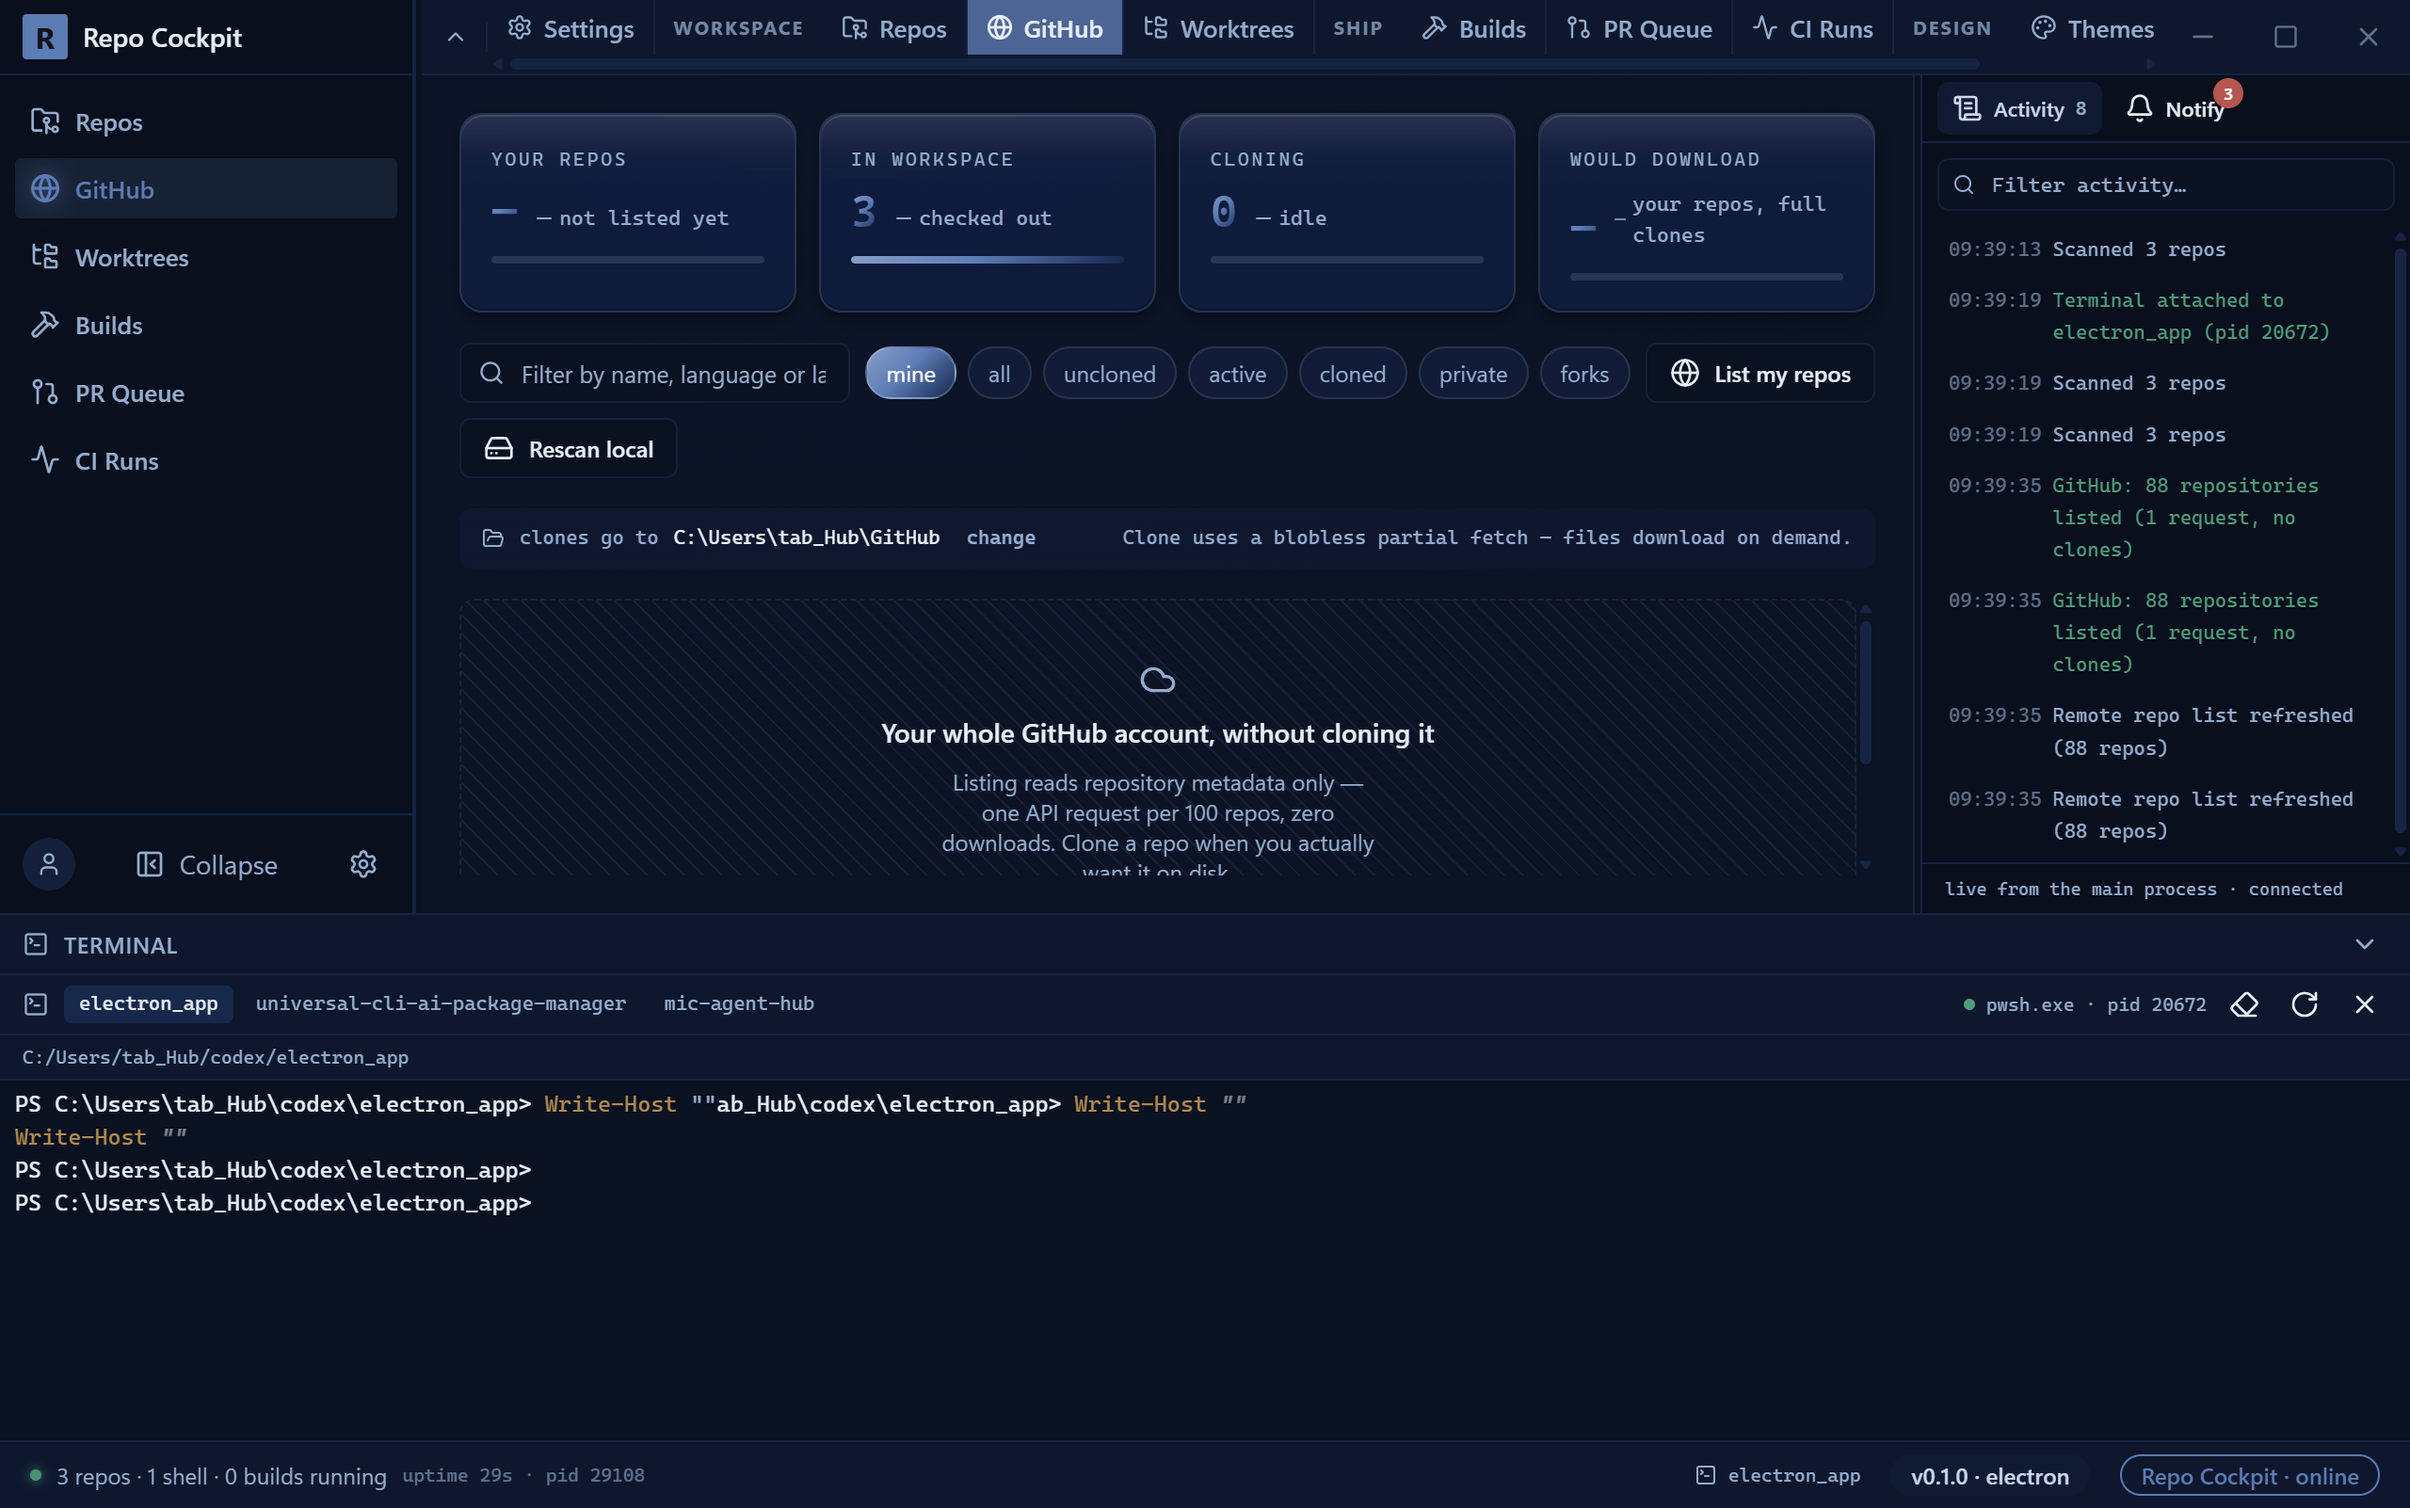
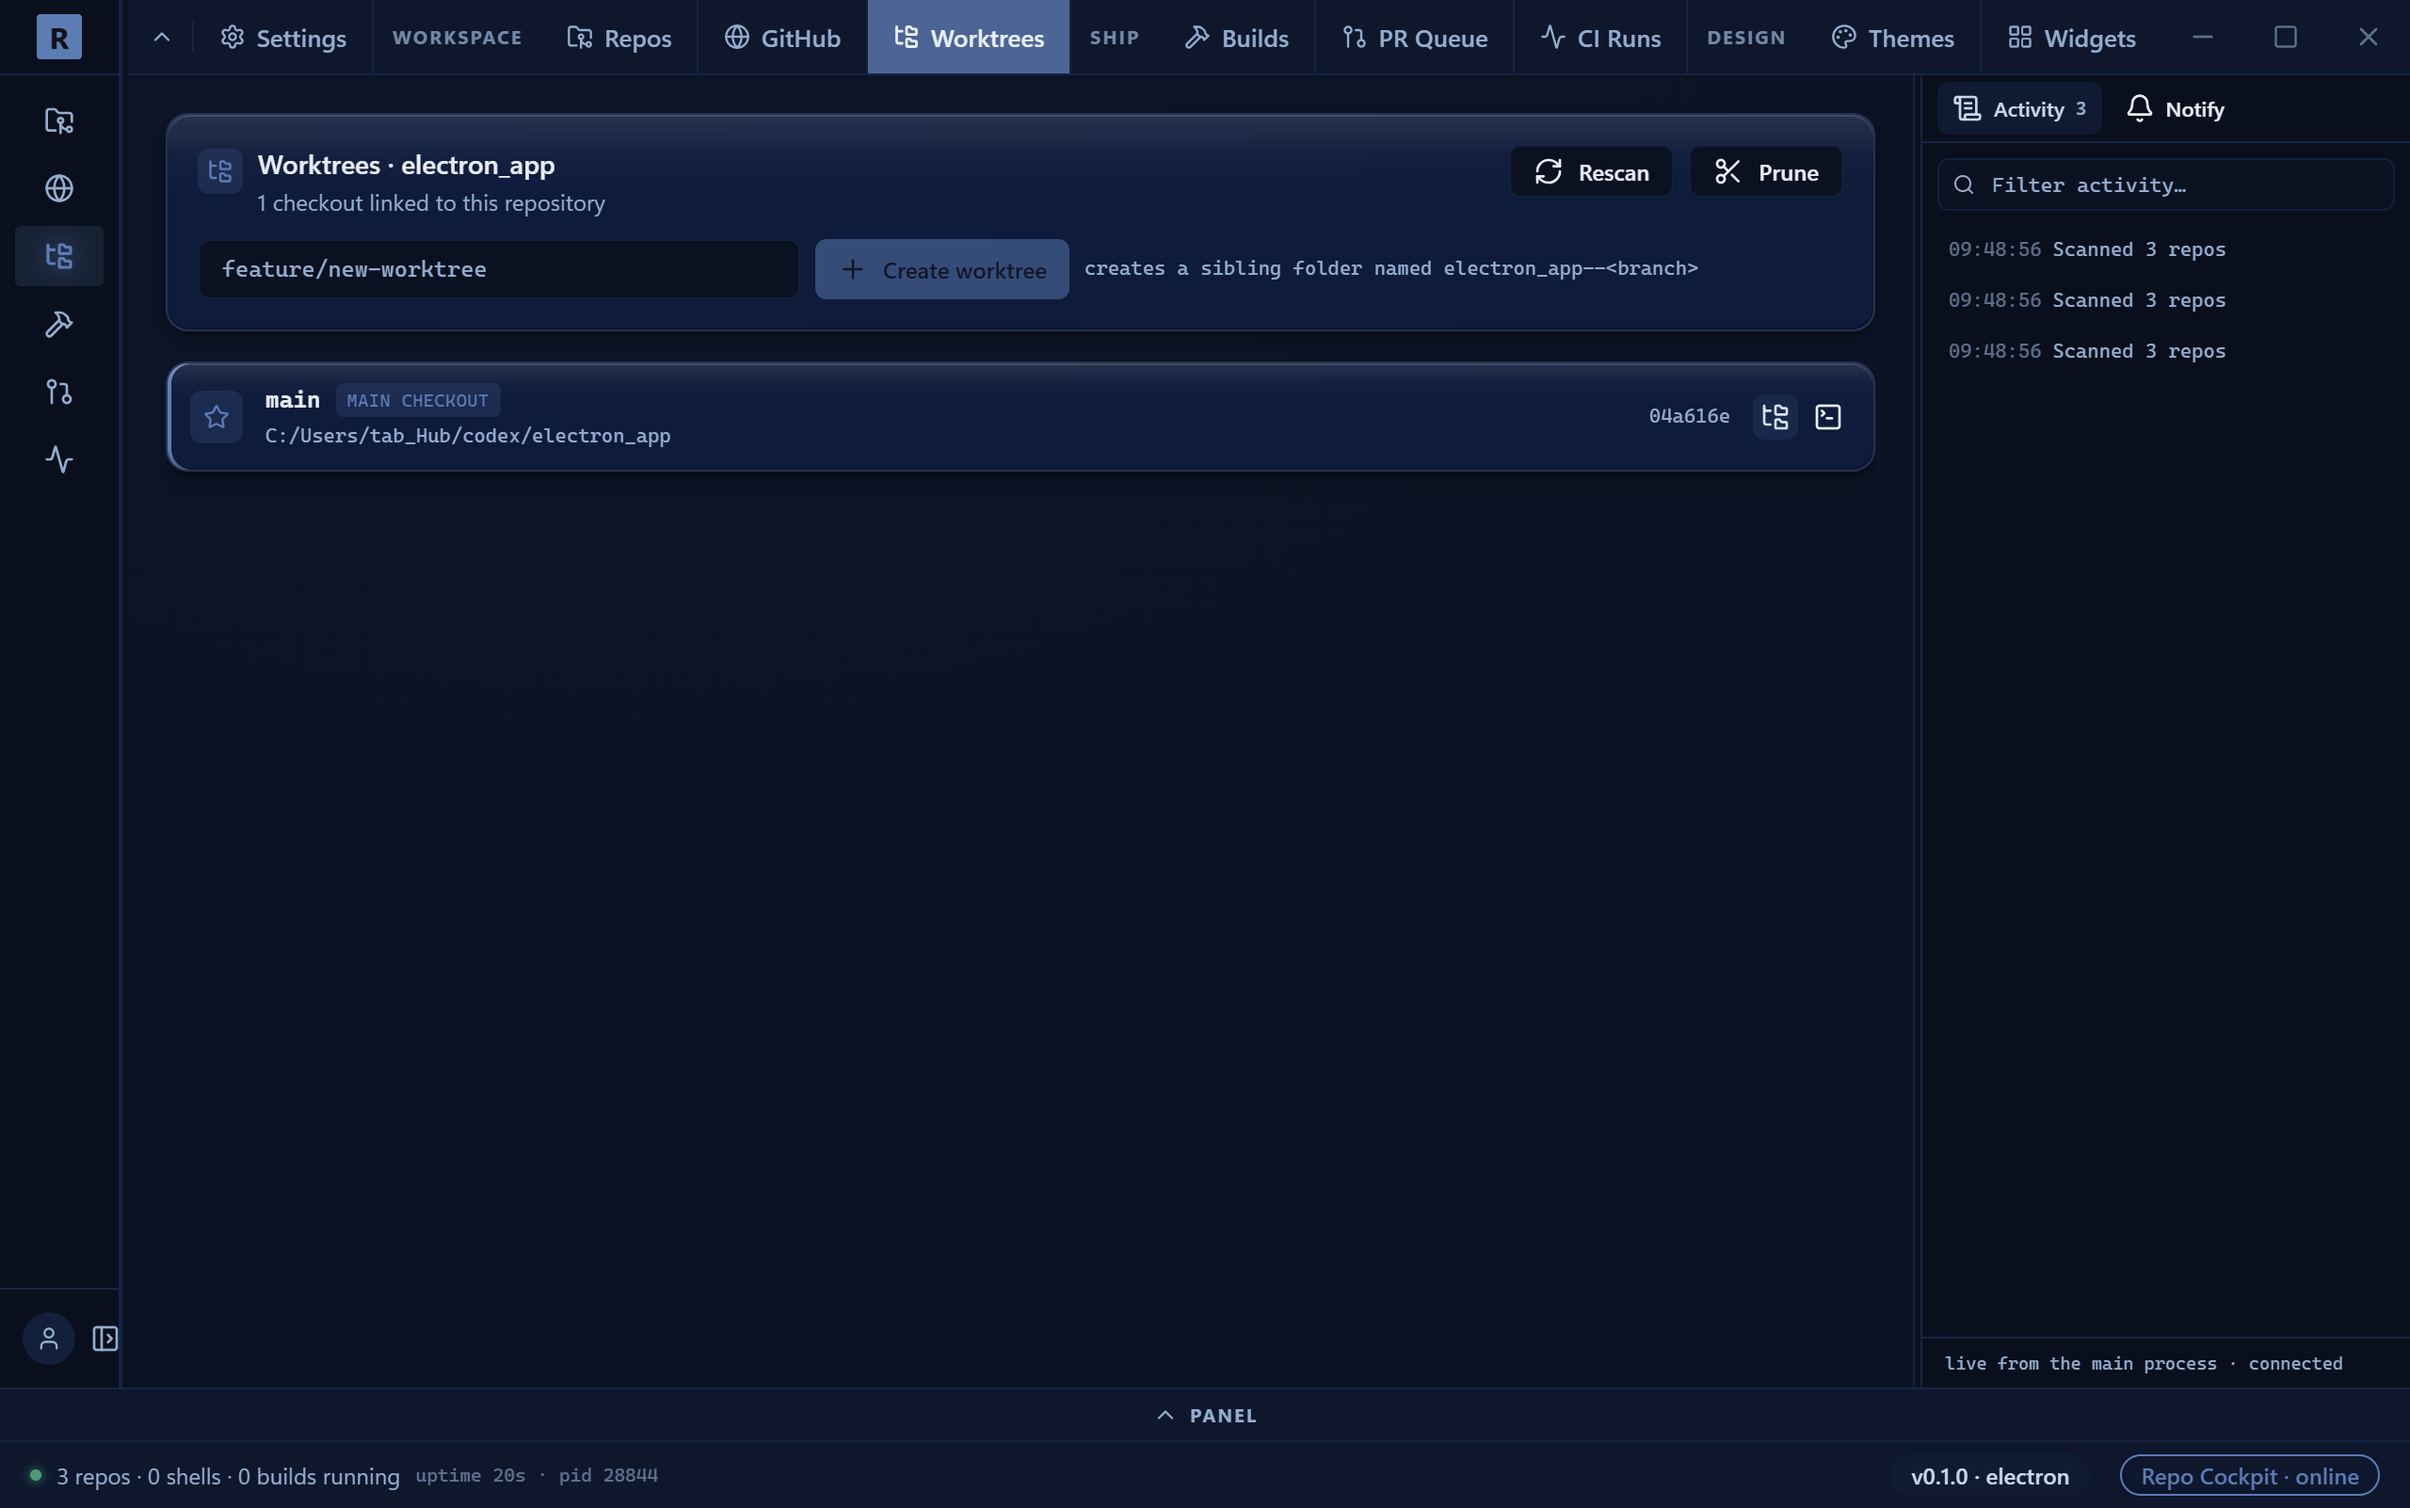
fix(github): "cloned" must mean cloned on THIS machine, not workspace size
The tile counted every repo in the workspace, including local working copies
that were never cloned from GitHub — `electron_app` sits in the list with no
GitHub remote at all, so the number read higher than the truth.

- Renamed the tile to **Cloned here**, counting only repos that map to a GitHub
  slug via their `origin` remote (the actual evidence of a clone).
- Workspace repos without a GitHub remote are reported separately as
  "N local non-GitHub" in the footer line, so they are still visible without
  inflating the clone count.
- The tile's progress rail now reads as a proportion (cloned / your repos),
  which was previously a flat 100%.
- Clone-destination row states the count it is talking about ("2 cloned into
  C:\Users\tab_Hub\GitHub") so the path and the number can't be misread.
- Removed a dead `pickedDir` state that never rendered.

Verified live: 66 repos / 22 forks / 2 cloned here / 1 local non-GitHub,
with `electron_app` correctly excluded from the clone count.

diff --git a/src/renderer/src/pages/cockpit/GithubPage.tsx b/src/renderer/src/pages/cockpit/GithubPage.tsx
@@ -161,10 +161,11 @@ function RepoCard({ repo }: { repo: RemoteRepo }): React.JSX.Element {
 }
 
 export function GithubPage(): React.JSX.Element {
-  const { snapshot, listRemoteRepos, githubBusy, cloning, refresh } = useCockpitStore()
+  const { snapshot, listRemoteRepos, githubBusy, cloning, refresh, pickCloneParent } =
+    useCockpitStore()
   const [filter, setFilter] = useState<Filter>('mine')
   const [query, setQuery] = useState('')
-  const [pickedDir, setPickedDir] = useState(false)
+
   /**
    * `Date.now()` inside a `useMemo` is impure — the lint rule is right, and it
    * also stops the "active" filter from recomputing on unrelated renders.
@@ -206,13 +207,17 @@ export function GithubPage(): React.JSX.Element {
   const stats = useMemo(() => {
     const mine = repos.filter((r) => !r.isFork)
     const forks = repos.filter((r) => r.isFork)
+    /** Repos on this machine that map to a GitHub repo — i.e. actually fetched. */
+    const clonedHere = repos.filter((r) => r.cloned).length
+    /** Workspace repos with no GitHub remote at all (local working copies). */
+    const local = snapshot?.repos.length ?? 0
     return {
       total: remote?.total ?? repos.length,
       mine: mine.length,
       forks: forks.length,
-      cloned: repos.filter((r) => r.cloned).length,
-      remoteOnly: mine.filter((r) => !r.cloned).length,
-      local: snapshot?.repos.length ?? 0,
+      clonedHere,
+      localOnly: Math.max(0, local - clonedHere),
+      local,
       /** total size of YOUR repos not yet on disk — what a "clone all" would cost */
       pendingGb: mine.filter((r) => !r.cloned).reduce((s, r) => s + r.sizeKb, 0) / 1024 / 1024
     }
@@ -231,10 +236,16 @@ export function GithubPage(): React.JSX.Element {
           progress={listed ? 100 : 0}
         />
         <StatTile
-          label="In workspace"
-          value={String(stats.local)}
-          delta="checked out"
-          progress={stats.local ? 100 : 0}
+          label="Cloned here"
+          value={String(stats.clonedHere)}
+          delta={
+            stats.clonedHere
+              ? 'cloned on this machine'
+              : listed
+                ? 'nothing cloned yet'
+                : 'not listed yet'
+          }
+          progress={stats.mine ? (stats.clonedHere / Math.max(stats.mine, 1)) * 100 : 0}
         />
         <StatTile
           label="Cloning"
@@ -305,24 +316,21 @@ export function GithubPage(): React.JSX.Element {
         style={{ background: 'hsl(var(--muted) / 0.4)' }}
       >
         <FolderOpen className="h-3 w-3 shrink-0" />
-        <span className="shrink-0">clones go to</span>
+        <span className="shrink-0">
+          {stats.clonedHere > 0 ? `${stats.clonedHere} cloned` : 'clones'} into
+        </span>
         <span className="min-w-0 truncate text-foreground">{cloneRoot || '—'}</span>
         <Button
           size="sm"
           variant="ghost"
           className="h-5 px-1.5 text-[10.5px]"
-          onClick={async () => {
-            await useCockpitStore.getState().pickCloneParent()
-            setPickedDir(true)
-          }}
+          onClick={() => void pickCloneParent()}
+          title="Choose where future clones land (saved)"
         >
           change
         </Button>
-        {pickedDir && <span className="shrink-0">· saved</span>}
         <div className="flex-1" />
-        <span className="shrink-0">
-          Clone uses a blobless partial fetch — files download on demand.
-        </span>
+        <span className="shrink-0">Blobless partial fetch — file contents download on demand.</span>
       </div>
 
       {/* the list was restored from disk and is old — say so, don't hide it */}
@@ -403,8 +411,9 @@ export function GithubPage(): React.JSX.Element {
       {listed && (
         <p className="mono shrink-0 text-[10px] text-muted-foreground">
           {filtered.length} of {repos.length} shown · {stats.mine} yours · {stats.forks} forks ·{' '}
-          {remote?.fetchedAt ? `listed ${relative(remote.fetchedAt)}` : 'not listed'} ·{' '}
-          {stats.cloned} local
+          {stats.clonedHere} cloned here
+          {stats.localOnly > 0 ? ` · ${stats.localOnly} local non-GitHub` : ''}
+          {remote?.fetchedAt ? ` · listed ${relative(remote.fetchedAt)}` : ''}
         </p>
       )}
     </div>
